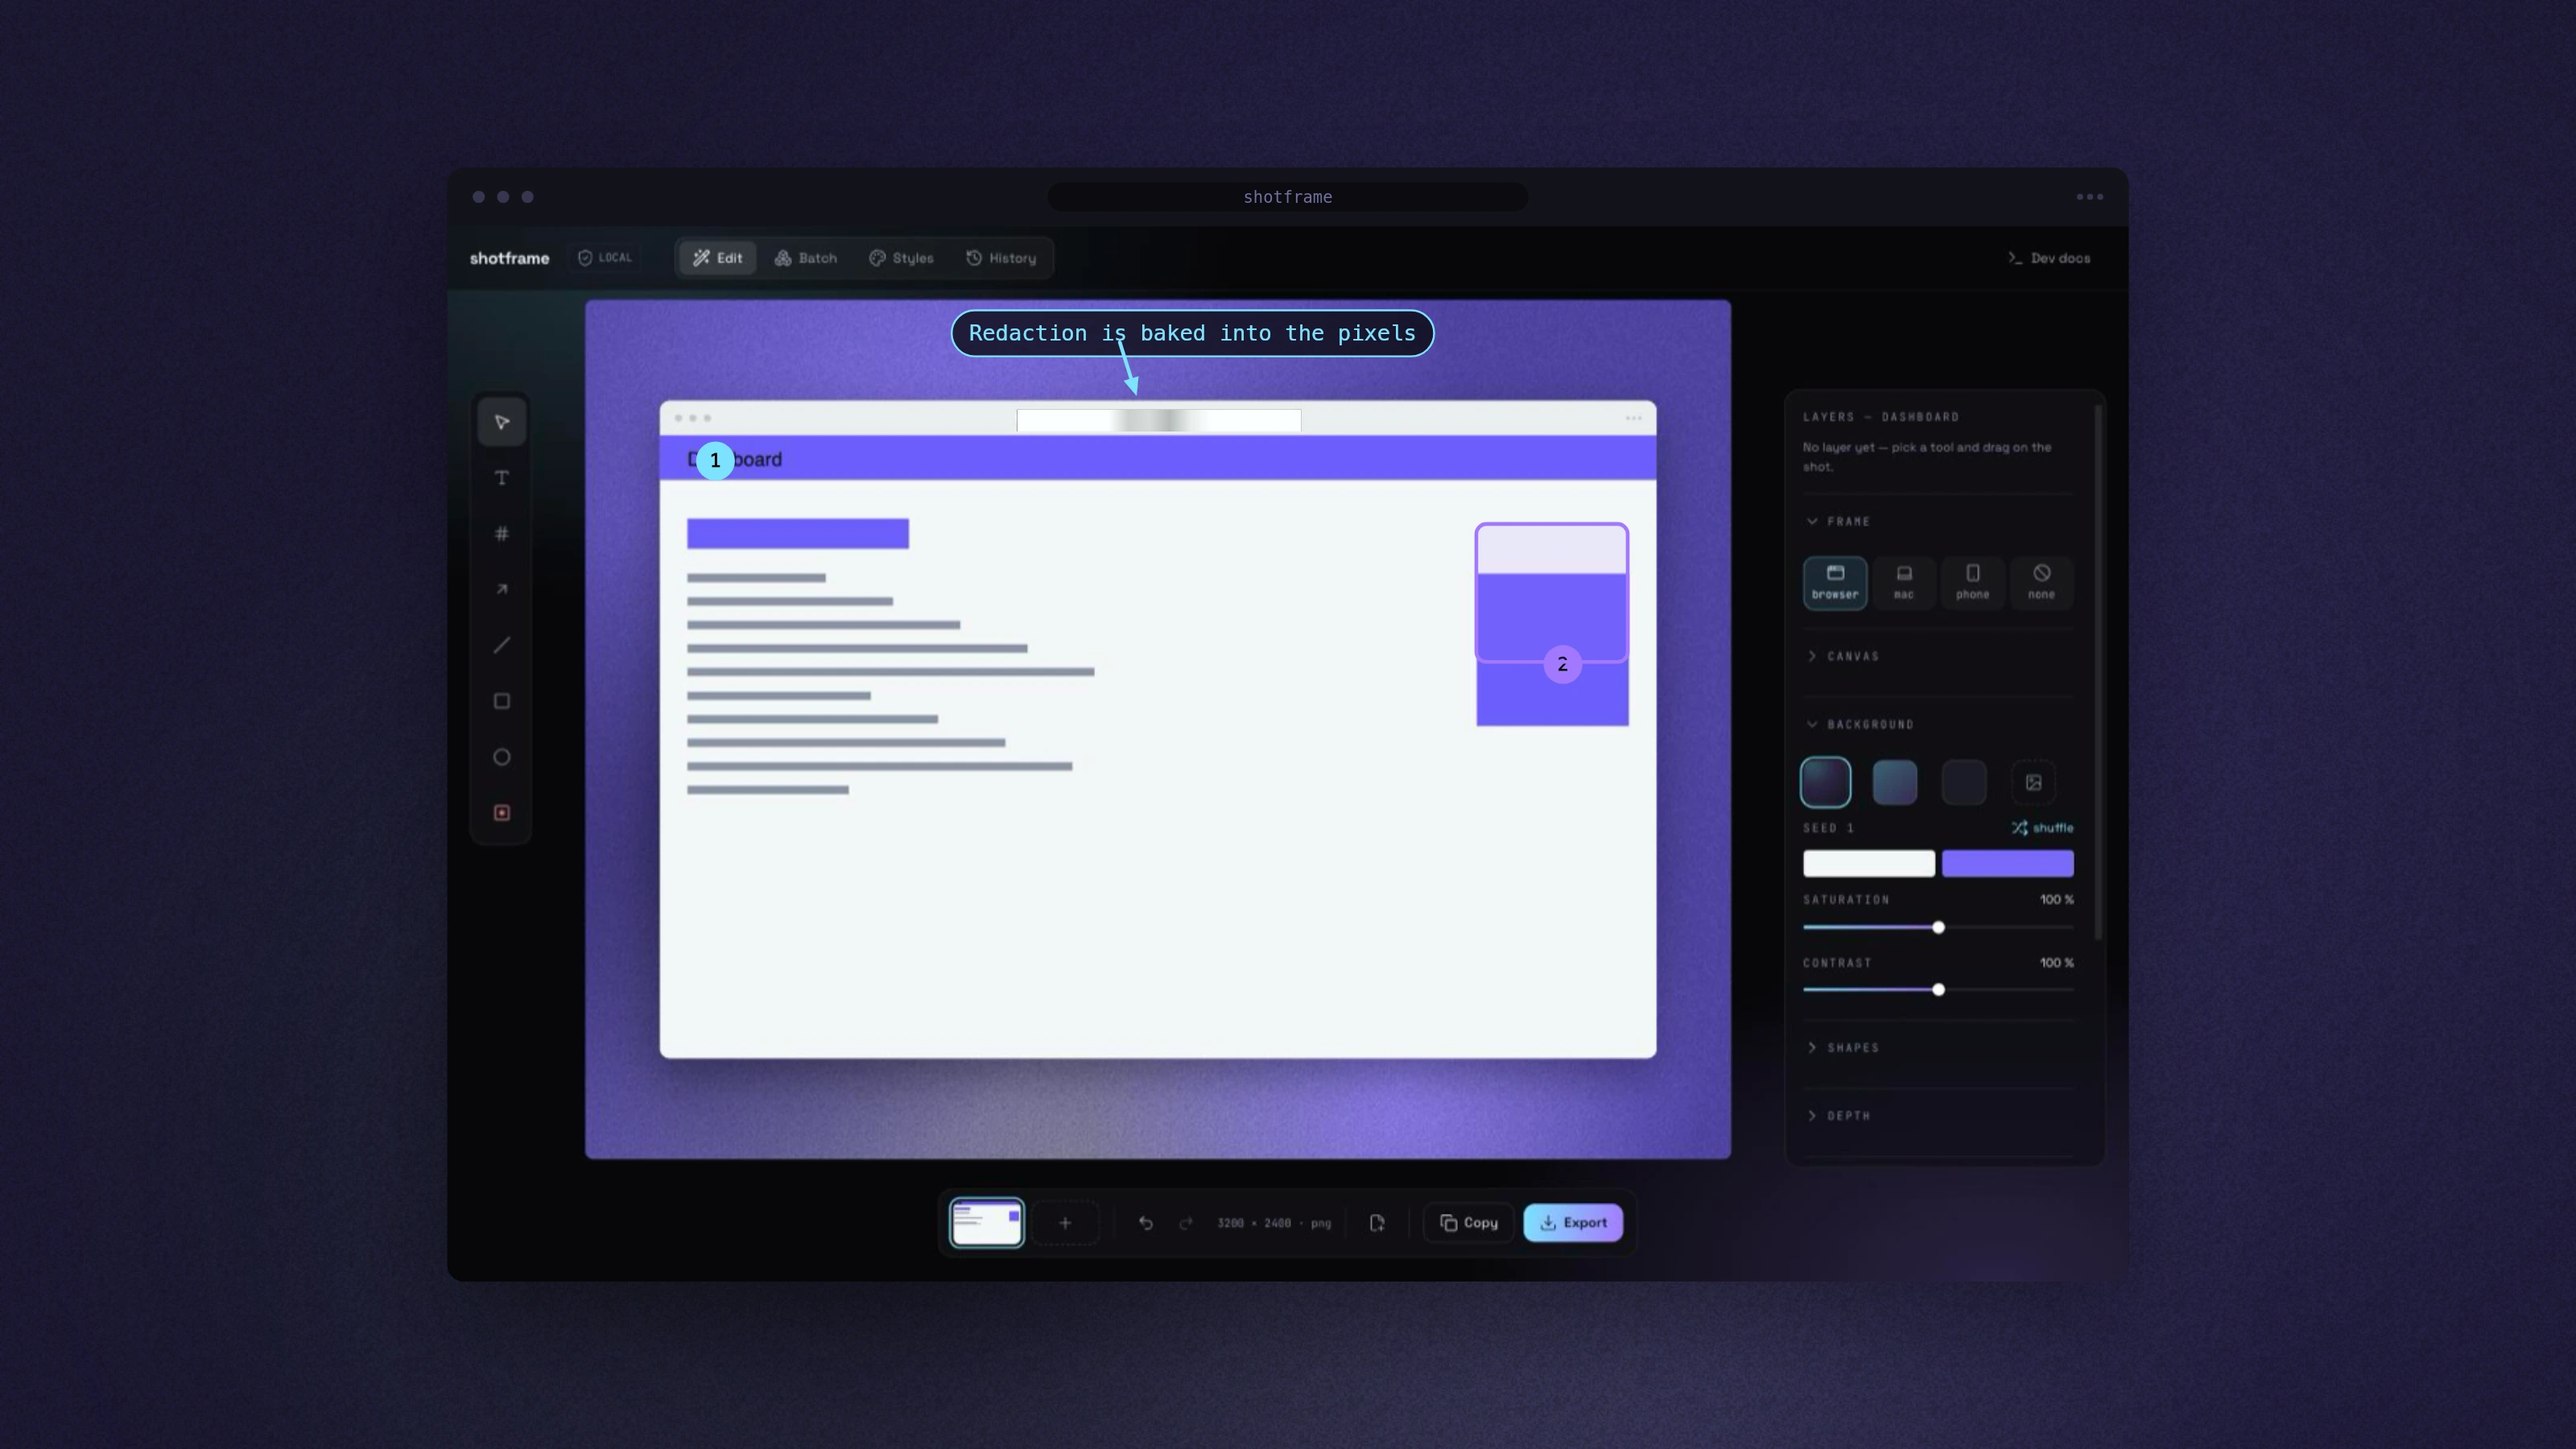
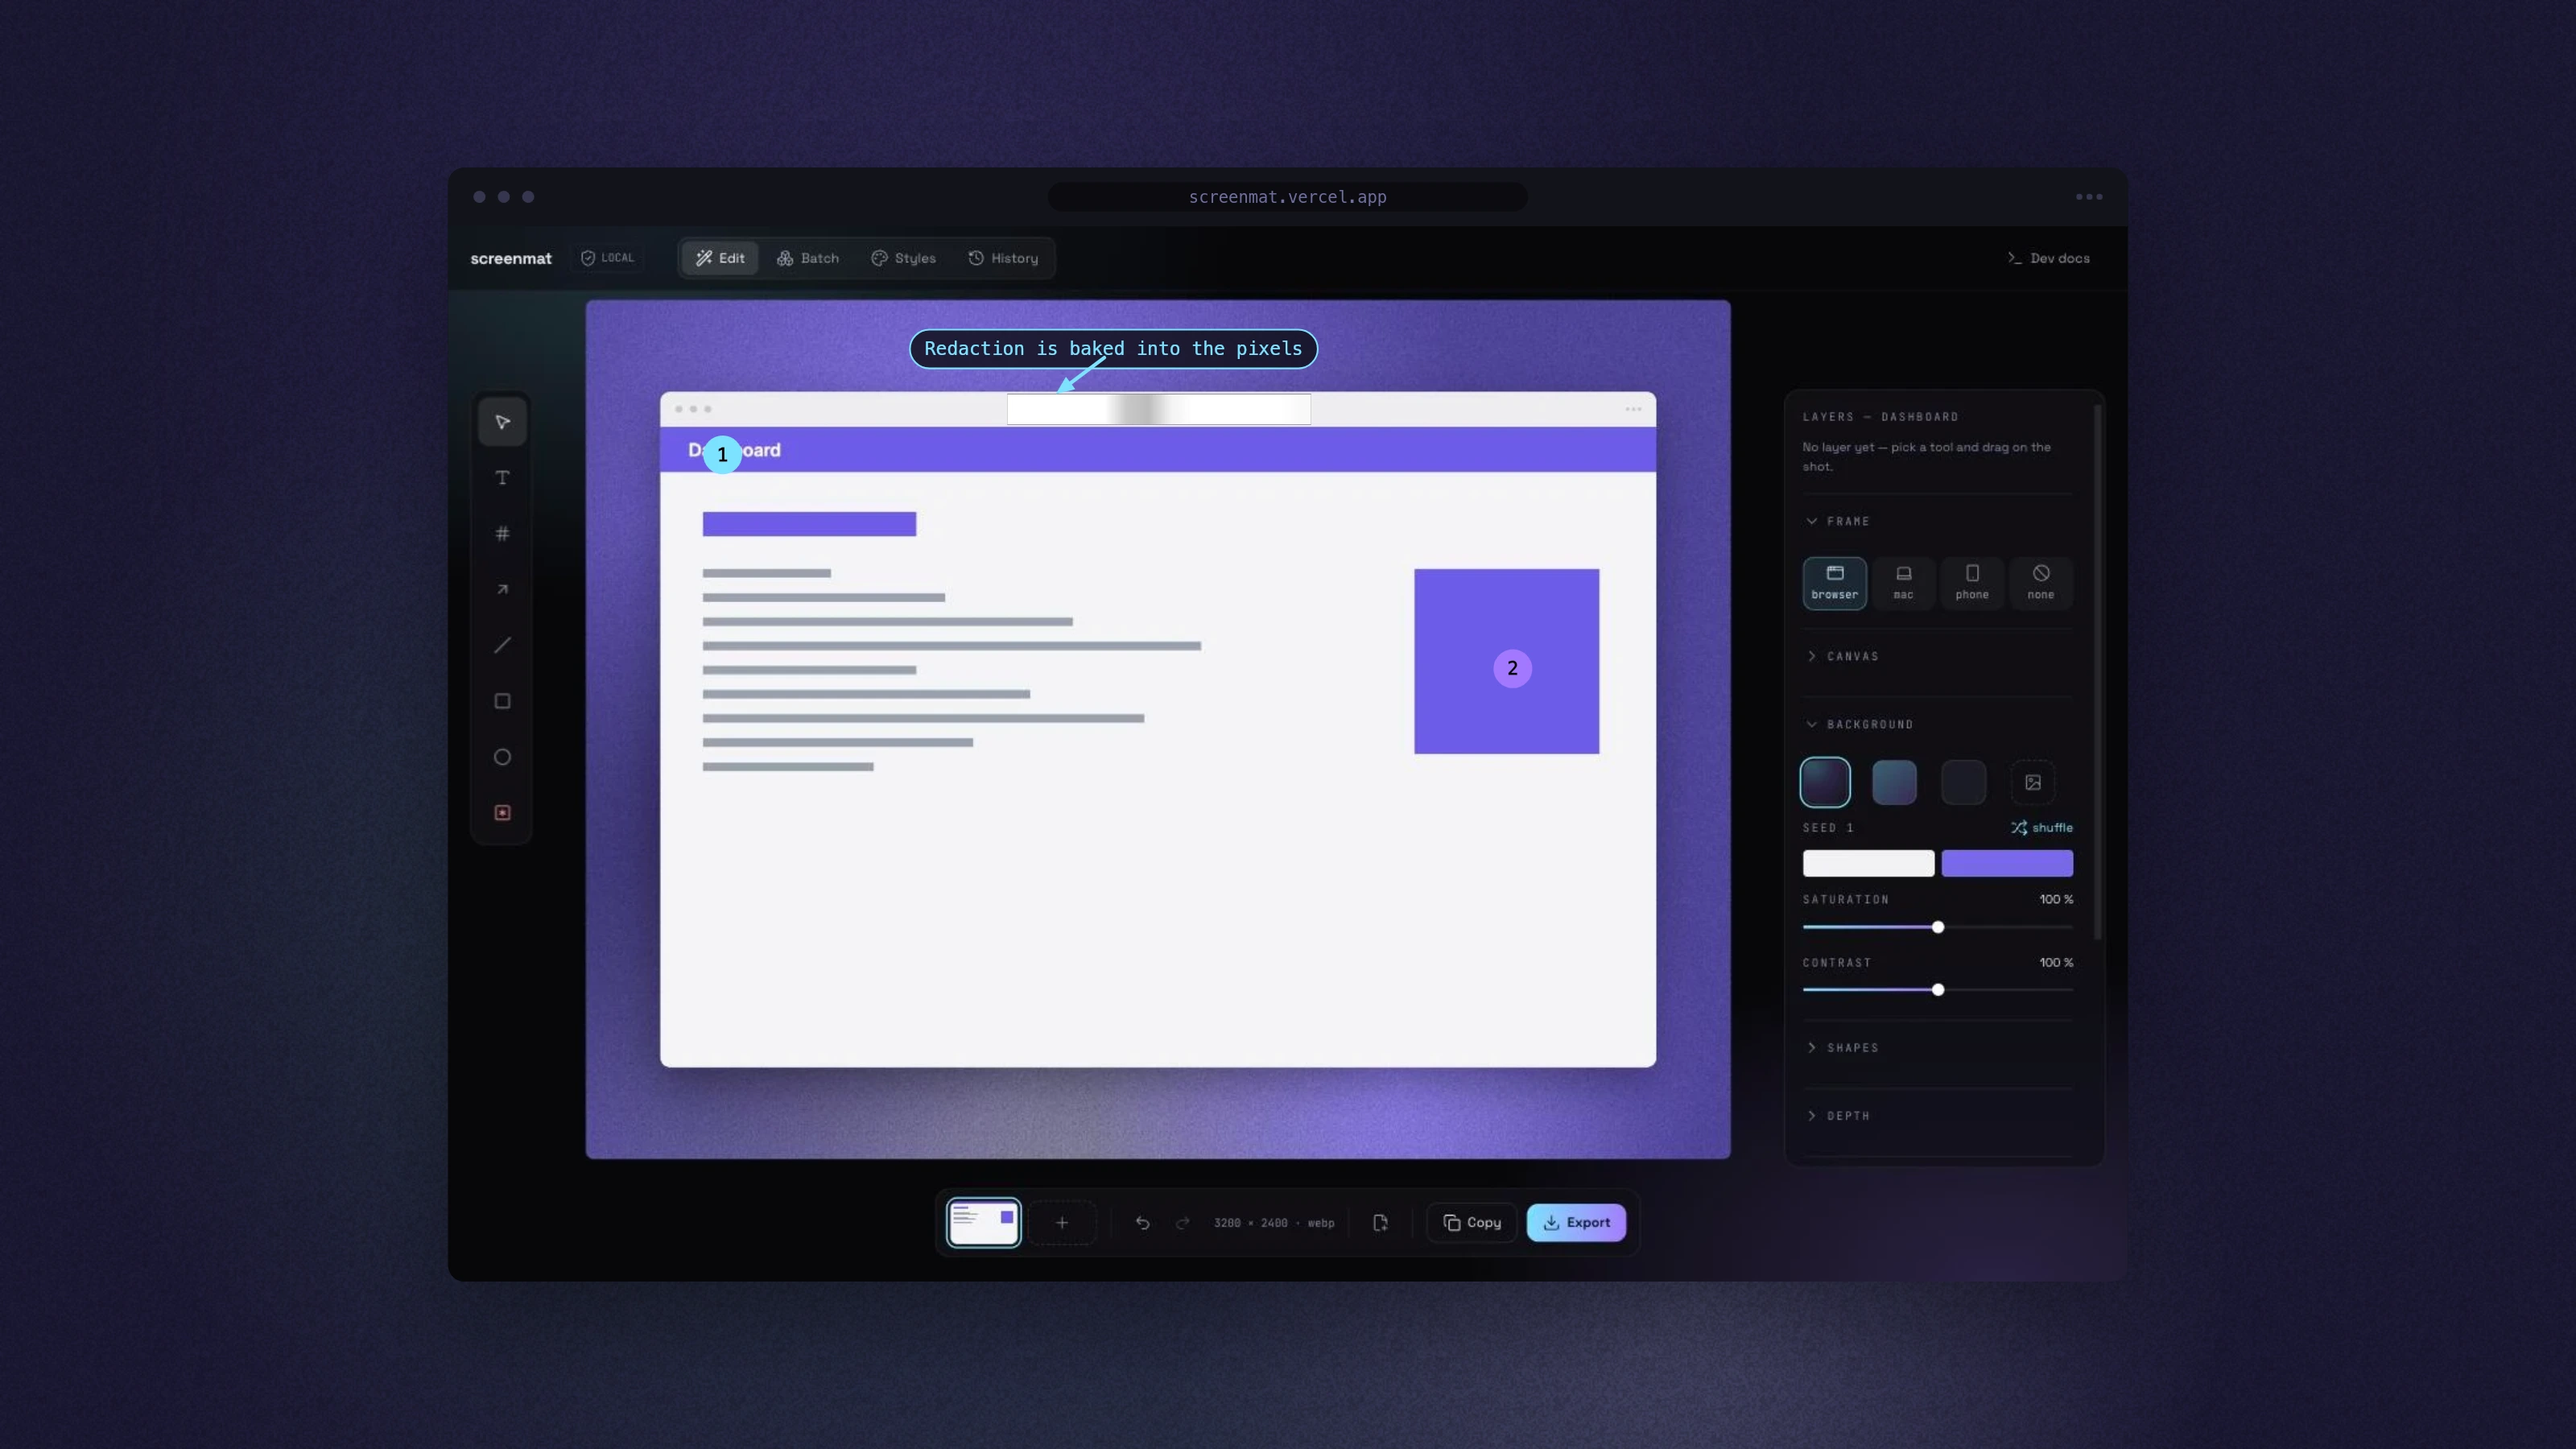
fix(docs): refaire les visuels des READMEs après le renommage
Les trois images de `docs/assets/`, affichées en tête des deux READMEs,
montraient encore « shotframe » à deux endroits : le titre de la fenêtre du
cadre et le logo de l'app à l'intérieur de la capture. C'est la première chose
que voit un visiteur du dépôt, désormais public.

Le titre du cadre dit maintenant `screenmat.vercel.app` — le site existe, et
c'est le seul endroit des READMEs qui montre l'adresse.

La capture brute passe de `before.png` (423 ko) à `before.webp` (53 ko), pour
un affichage à 420 px de large. Conforme à la règle WebP du projet.

Le renommage n'était que le déclencheur. Le vrai manque était qu'aucun fichier
ne disait comment ces images avaient été produites : il a fallu remonter à un
paragraphe d'un plan périmé pour reconstituer les commandes. D'où les deux
ajouts :

- `docs/assets/annotated.json` — la scène et ses cinq calques : floutage de la
  barre d'adresse, appel de texte en pilule, sa flèche, deux badges.
- `docs/assets/regenerate.sh` — les commandes. Rejouer le script reproduit
  `hero.webp` et `annotated.webp` **au bit près** depuis la seule capture brute,
  le `seed` étant explicite. La capture, elle, ne s'automatise pas : le script
  le dit en tête plutôt que de faire semblant.

Deux pièges rencontrés, consignés dans les commentaires du script :

- Le champ `input` d'une scène se résout depuis le répertoire courant, pas
  depuis le fichier de scène — d'où le `cd` qui garde `annotated.json` portable.
[…]

diff --git a/README.fr.md b/README.fr.md
@@ -55,7 +55,7 @@ screenshot, des annotations, du floutage — le tout calculé dans le navigateur
 
 | Le screenshot brut | Le même, mis en scène et annoté |
 | --- | --- |
-| <img src="docs/assets/before.png" alt="Un screenshot brut, sans retouche" width="420"> | <img src="docs/assets/annotated.webp" alt="Le même screenshot avec fond génératif, badges, appel de texte et floutage cuit" width="420"> |
+| <img src="docs/assets/before.webp" alt="Un screenshot brut, sans retouche" width="420"> | <img src="docs/assets/annotated.webp" alt="Le même screenshot avec fond génératif, badges, appel de texte et floutage cuit" width="420"> |
 
 Des badges, une flèche d'appel et un flou sur la barre d'adresse — le flou est
 dans les pixels, pas posé par-dessus.

diff --git a/README.md b/README.md
@@ -54,7 +54,7 @@ English · [Français](README.fr.md)
 
 | The raw screenshot | The same one, framed and annotated |
 | --- | --- |
-| <img src="docs/assets/before.png" alt="A raw, unedited screenshot" width="420"> | <img src="docs/assets/annotated.webp" alt="The same screenshot with a generated background, badges, a callout and a baked blur" width="420"> |
+| <img src="docs/assets/before.webp" alt="A raw, unedited screenshot" width="420"> | <img src="docs/assets/annotated.webp" alt="The same screenshot with a generated background, badges, a callout and a baked blur" width="420"> |
 
 Badges, a callout arrow and a blur over the address bar — the blur is in the
 pixels, not on top of them.
